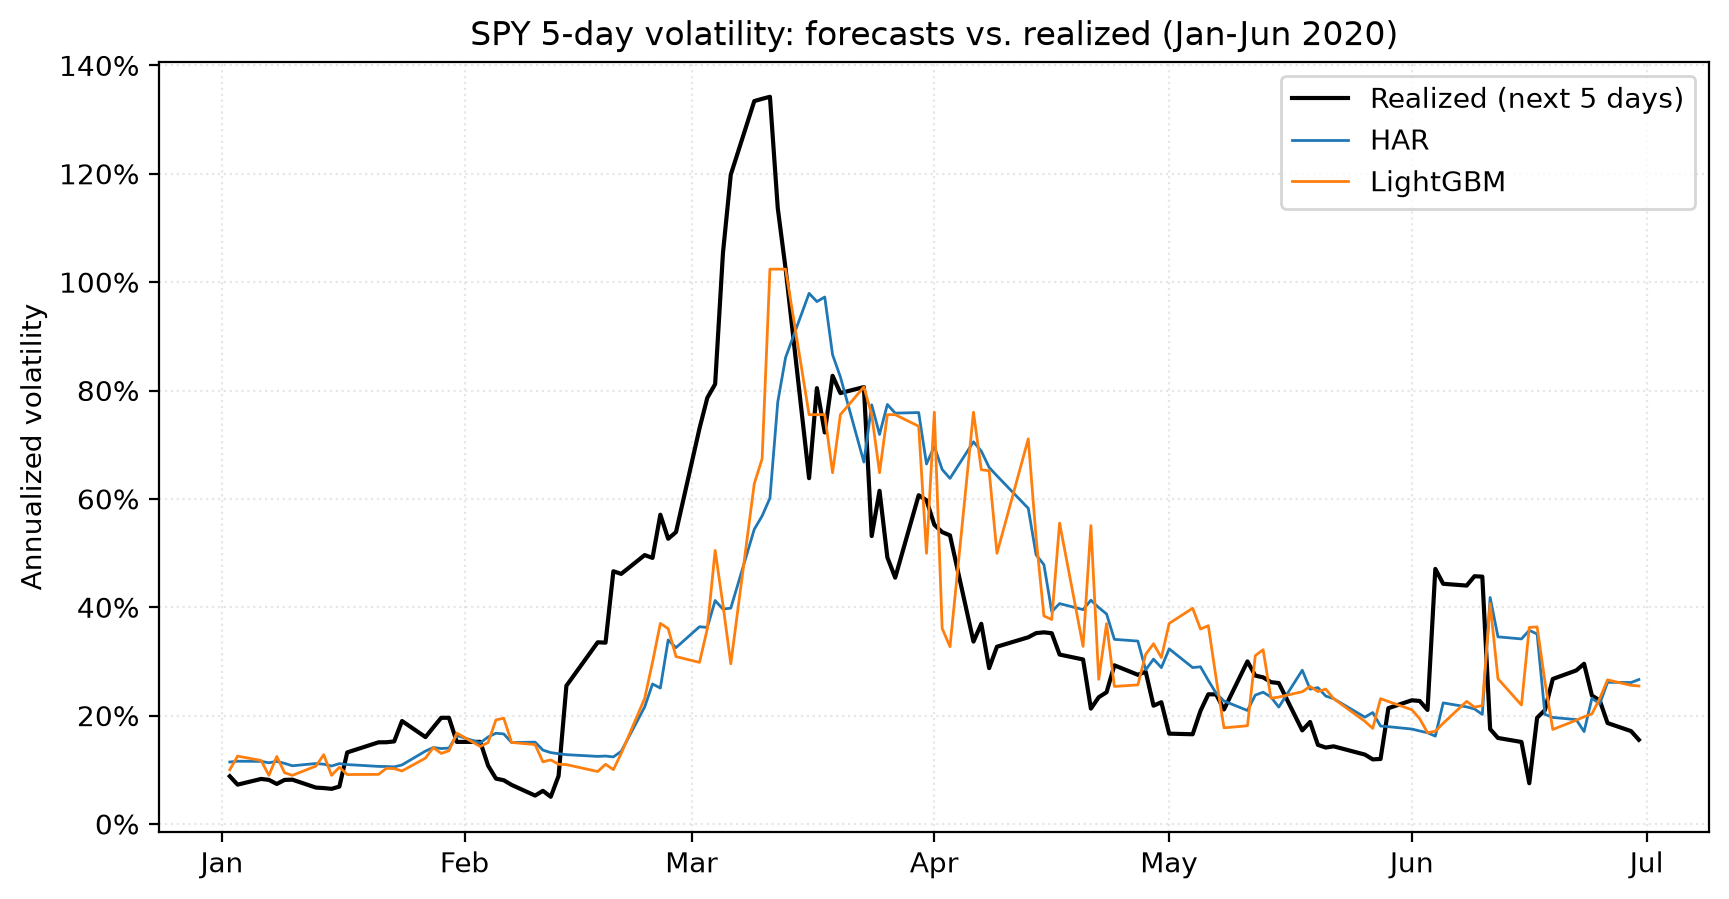
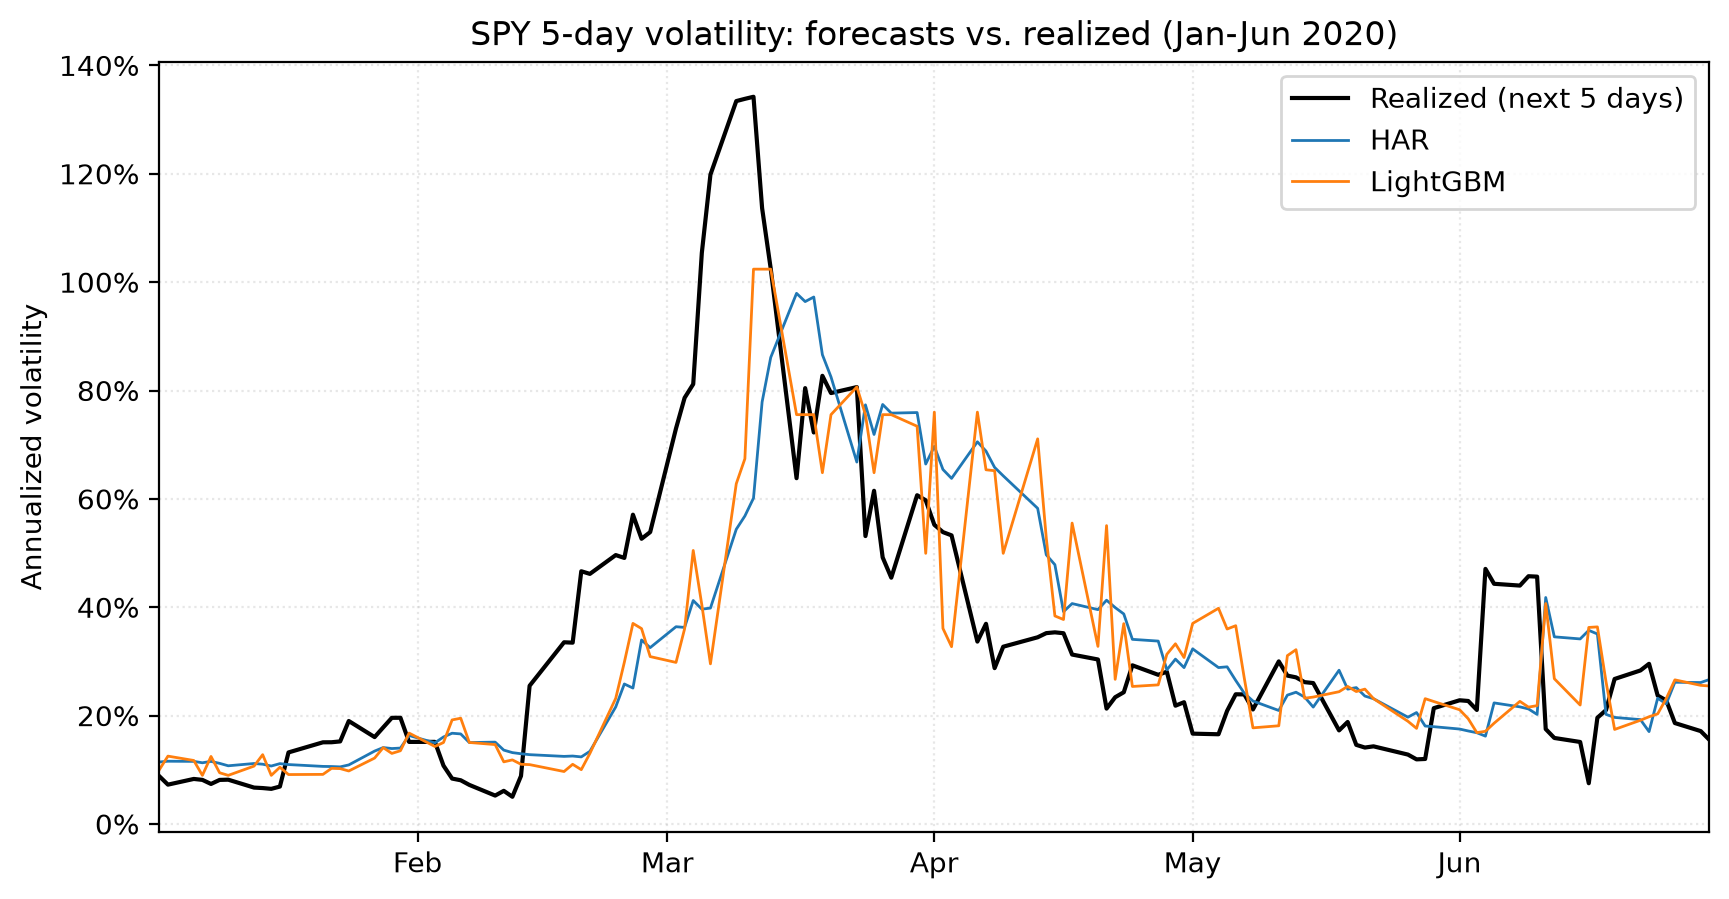
Modify plot_vol functions to fit data better. Create new plots in figures

diff --git a/plot_vol.py b/plot_vol.py
@@ -19,12 +19,14 @@ def to_annual_vol[T: (pd.Series, pd.DataFrame)](x: T) -> T:
 
 
 def plot_volatility(vol: pd.Series, title: str, path: Path) -> None:
-    fig, ax = plt.subplots()
-    ax.plot(vol, lw=1)
+    fig, ax = plt.subplots(figsize=(10,5))
+    ax.plot(vol, lw=1.5, color="black")
     ax.yaxis.set_major_formatter(PercentFormatter(xmax=1, decimals=0))
+    ax.grid(linestyle=":", alpha=0.3)
+    ax.margins(x=0)
     ax.set_title(title)
     ax.set_ylabel("Annualized volatility")
-    fig.savefig(path)
+    fig.savefig(path, dpi=200, bbox_inches="tight")
 
 
 def plot_preds_on_vol(y_true: pd.Series, model_preds: pd.DataFrame, title: str, path: Path) -> None:
@@ -35,6 +37,7 @@ def plot_preds_on_vol(y_true: pd.Series, model_preds: pd.DataFrame, title: str, 
     ax.yaxis.set_major_formatter(PercentFormatter(xmax=1, decimals=0))
     ax.xaxis.set_major_formatter(DateFormatter("%b"))
     ax.grid(linestyle=":", alpha=0.3)
+    ax.margins(x=0)
     ax.set_title(title)
     ax.set_ylabel("Annualized volatility")
     ax.legend()
@@ -46,7 +49,7 @@ if __name__ == "__main__":
     X, y = build_dataset(ticker)
     plot_volatility(
         to_annual_vol(X["monthly"]),
-        f"{ticker} 22-day realized volatility (annualized)",
+        f"{ticker} 22-day realized volatility, 2000-2026",
         FIGURES_DIR / f"{ticker.lower()}_realized_vol.png",
     )
     preds, y_true = get_predictions(models)
